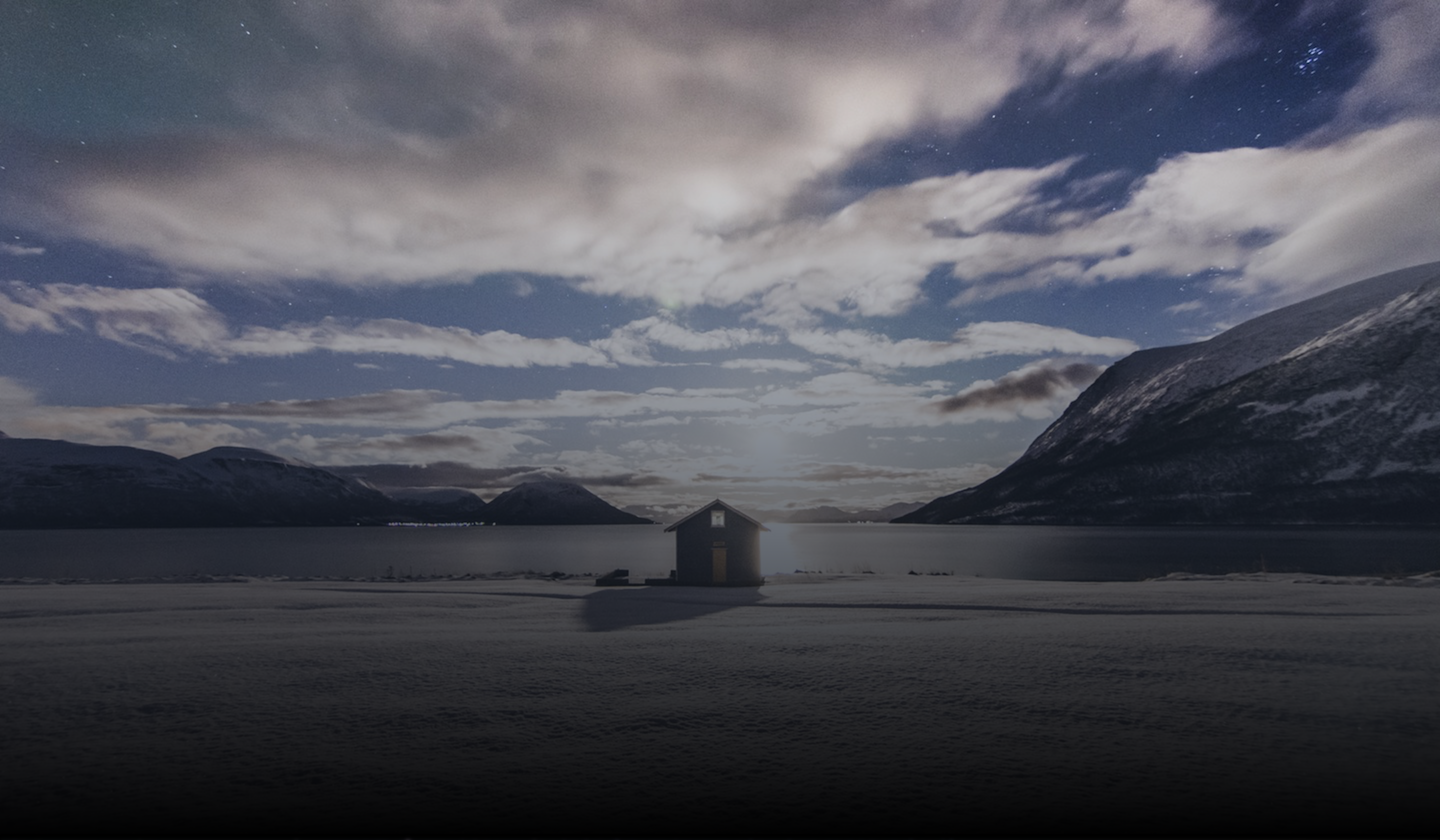
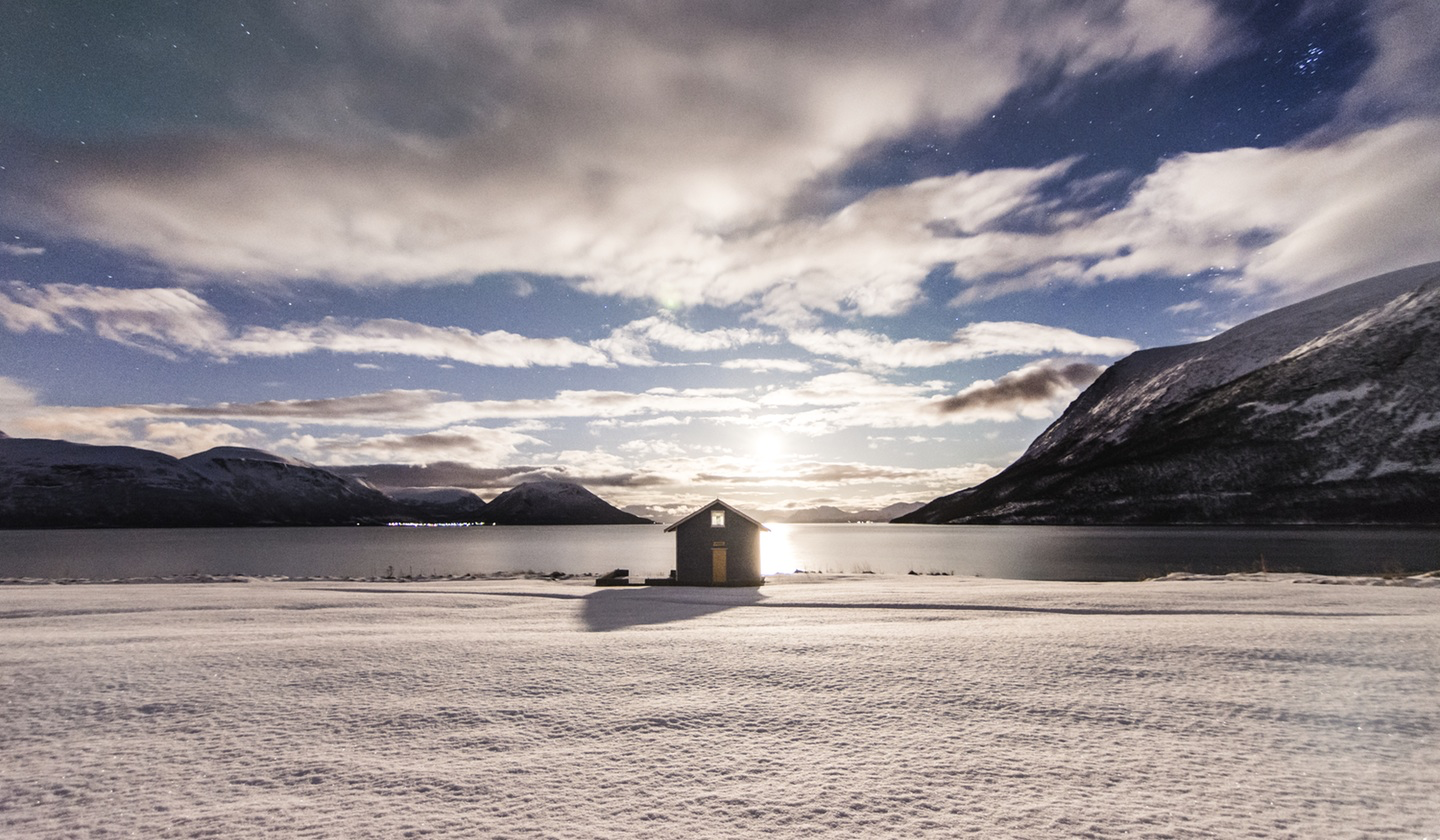
Header
header-bg, logo & nabber added

diff --git a/_includes/header.html b/_includes/header.html
@@ -1,0 +1,27 @@
+<header id="top" class="main-header">
+  <div class="top-header">
+    <div class="logo">
+      <img src="{{site.baseurl}}/assets/img/header/logo.svg" alt="Logo">
+    </div>
+    <div class="main-nav">
+      <nav>
+        <ul>
+          <a href="#"><li>Home</li></a>
+          <a href="#"><li>About</li></a>
+          <a href="#"><li>Services</li></a>
+          <a href="#"><li>Works</li></a>
+          <a href="#"><li>Team</li></a>
+          <a href="#"><li>Blog</li></a>
+          <a href="#"><li>Contacts</li></a>
+        </ul>
+      </nav>
+    </div>
+    <div class="social-icons">
+      <img src="{{site.baseurl}}/assets/img/header/linkedin.svg" alt="LinkedIn">
+      <img src="{{site.baseurl}}/assets/img/header/facebook.svg" alt="Facebook">
+      <img src="{{site.baseurl}}/assets/img/header/twitter.svg" alt="Twitter">
+    </div>
+  </div>
+  <p class="title"><span>Success is not final.</span> Failure is not fatal: It is the courage to continue that counts.</p>
+  <img class="scroll" src="{{site.baseurl}}/assets/img/header/scroll-icon.svg" alt="Down icon">
+</header>

diff --git a/_includes/about.html b/_includes/about.html
@@ -1,0 +1,8 @@
+<div class="flex">
+  <div class="col-2">
+    <p>1 - Lorem ipsum dolor sit amet, consectetur adipisicing elit, sed do eiusmod tempor incididunt ut labore et dolore magna aliqua. Ut enim ad minim veniam, quis nostrud exercitation ullamco laboris nisi ut aliquip ex ea commodo consequat. Duis aute irure dolor in reprehenderit in voluptate velit esse cillum dolore eu fugiat nulla pariatur. Excepteur sint occaecat cupidatat non proident, sunt in culpa qui officia deserunt mollit anim id est laborum.</p>
+  </div>
+  <div class="col-2">
+    <p>2 - Lorem ipsum dolor sit amet, consectetur adipisicing elit, sed do eiusmod tempor incididunt ut labore et dolore magna aliqua. Ut enim ad minim veniam, quis nostrud exercitation ullamco laboris nisi ut aliquip ex ea commodo consequat. Duis aute irure dolor in reprehenderit in voluptate velit esse cillum dolore eu fugiat nulla pariatur. Excepteur sint occaecat cupidatat non proident, sunt in culpa qui officia deserunt mollit anim id est laborum.</p>
+  </div>
+</div>

diff --git a/assets/css/1-tools/_general.sass b/assets/css/1-tools/_general.sass
@@ -2,16 +2,44 @@
   box-sizing: border-box
 
 body
-  background-color: #fff
+  background-color: #020306
   overflow-x: hidden
   line-height: 1.6
   font:
     size: 14px
-    family: 'Fira Sans'
-  color: #666
+    family: 'helvetica neue'
+  color: #fff
   -webkit-font-smoothing: antialiased
   -webkit-text-size-adjust: 100%
   height: 100%
 
   img
     max-width: 50%
+
+  a
+    color: #fff
+    list-style-type: none
+    text-decoration: none
+
+// TWO COLUMN LAYOUT
+.flex
+  display: flex
+  flex-direction: row
+  justify-content: center
+
+.order-first
+  order: -1
+
+// COLUMNS
+
+.col-2
+  max-width: 640px
+  box-sizing: border-box
+  width: 100%
+  padding: 0 10px
+
+// RESPONSIVE COLUMNS
+
+@media (max-width: 640px)
+  .flex
+    display: block

diff --git a/assets/css/4-sections/_header.sass b/assets/css/4-sections/_header.sass
@@ -1,0 +1,38 @@
+.main-header
+  padding-top: 30px
+  height: 840px
+  background: linear-gradient(-179deg, rgba(48,71,105,0.00) 0%, #000000 100%), url('../img/header/header-bg.png') no-repeat center
+  background-size: cover
+
+  .top-header
+    display: flex
+    flex-wrap: wrap
+    flex-direction: row
+    justify-content: space-around
+
+    .logo
+      img
+        width: 100px
+        height: 50px
+
+    .main-nav
+      li
+        display: inline-block
+        padding: 0 20px
+        font-size: 12px
+
+    .social-icons
+      display: inline-flex
+
+      img
+        padding: 0 5px
+
+  .title
+    font-size: 36px
+
+    span
+      color: #50E3C2
+
+  .scroll
+    width: 24px
+    height: 36px

diff --git a/index.html b/index.html
@@ -2,4 +2,6 @@
 layout: default
 ---
 
-<p>Lorem ipsum dolor sit amet, consectetur adipisicing elit, sed do eiusmod tempor incididunt ut labore et dolore magna aliqua. Ut enim ad minim veniam, quis nostrud exercitation ullamco laboris nisi ut aliquip ex ea commodo consequat. Duis aute irure dolor in reprehenderit in voluptate velit esse cillum dolore eu fugiat nulla pariatur. Excepteur sint occaecat cupidatat non proident, sunt in culpa qui officia deserunt mollit anim id est laborum.</p>
+{% include header.html %}
+
+{% include about.html %}

diff --git a/_layouts/default.html b/_layouts/default.html
@@ -4,7 +4,7 @@
     <meta charset="utf-8">
     <title>Key.t Theme | Jekyll</title>
     <link rel="stylesheet" href="{{site.baseurl}}/assets/css/main.css">
-    <!-- <link rel="shortcut icon" href="favicon.ico"> -->
+    <link rel="shortcut icon" href="{{site.baseurl}}/assets/img/favicon.ico">
   </head>
   <body>
     <!-- <a href="javascript:" id="return-to-top"><i class="icon-chevron-up"></i></a><link href="//netdna.bootstrapcdn.com/font-awesome/3.2.1/css/font-awesome.css" rel="stylesheet"> -->

diff --git a/assets/css/main.sass b/assets/css/main.sass
@@ -20,3 +20,4 @@
 
 
 // 4 - sections
+@import '4-sections/header'
